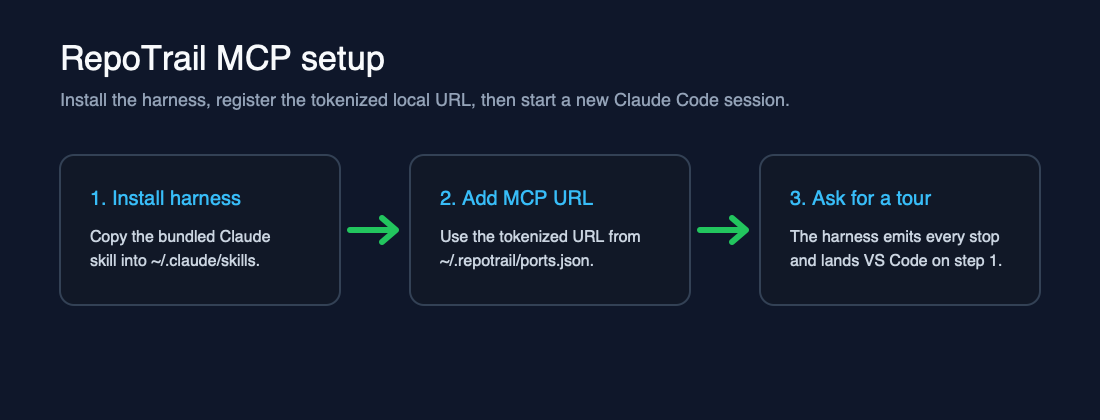
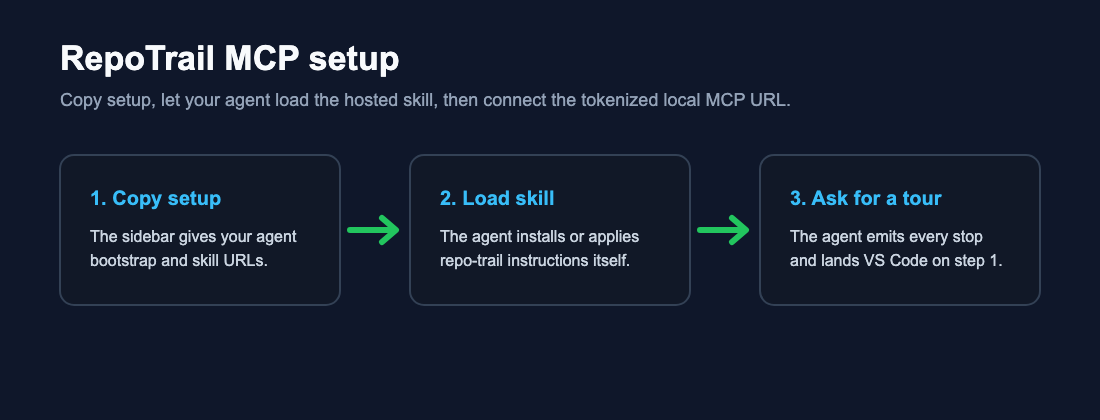
fix: make RepoTrail setup agent-owned
RepoTrail should serve the canonical skill and bootstrap metadata while each MCP-capable agent installs or applies that skill through its own harness mechanism. This removes the dedicated Claude install path from the extension so Claude remains only an example client, not a product adapter.

Constraint: RepoTrail launch path must be harness-agnostic over tokenized local MCP

Rejected: Keep a Claude-specific install command | it makes one client look privileged and recreates setup confusion

Confidence: high

Scope-risk: narrow

Directive: Keep vendor-specific setup out of the extension command surface; document clients only as examples

Tested: pnpm build

Tested: pnpm install-local

Tested: unpacked repotrail-0.10.0.vsix and scanned packaged command/stale-string surfaces

Not-tested: live VS Code window reload after reinstall

diff --git a/src/extension.ts b/src/extension.ts
@@ -1,6 +1,3 @@
-import * as fs from "node:fs/promises";
-import * as os from "node:os";
-import * as path from "node:path";
 import * as vscode from "vscode";
 import {
   parseTourJson,
@@ -145,7 +142,6 @@ export async function activate(context: vscode.ExtensionContext): Promise<void> 
     ),
     vscode.commands.registerCommand("repoTrail.stop", () => controller.stop()),
     vscode.commands.registerCommand("repoTrail.copyAgentSetup", () => copyAgentSetup()),
-    vscode.commands.registerCommand("repoTrail.installSkillForClaude", () => installSkillForClaude(context)),
     vscode.commands.registerCommand("repoTrail.openNarration", () => {
       vscode.commands.executeCommand("repoTrail.tour.focus").then(undefined, () => {});
     }),
@@ -543,34 +539,10 @@ async function copyAgentSetup(): Promise<void> {
   const prompt =
     "Use RepoTrail for this VS Code workspace.\n\n" +
     `1. Fetch this bootstrap metadata: ${mcp.bootstrapUrl}\n` +
-    `2. Fetch and install/use this as the repo-trail skill: ${mcp.skillUrl}\n` +
+    `2. Fetch this repo-trail skill and install/use it with your own agent skill mechanism: ${mcp.skillUrl}\n` +
     `3. Connect to the RepoTrail MCP server: ${mcp.connectionUrl}\n` +
     "4. Call get_workspace and verify workspaceRoot matches this repository before emitting a tour.\n" +
     "5. Generate the complete tour up front with start_tour, add_step, and show_step({ index: 0 }).";
   await vscode.env.clipboard.writeText(prompt);
   vscode.window.showInformationMessage("Copied RepoTrail agent setup. Paste it into your agent.");
-}
-
-async function installSkillForClaude(context: vscode.ExtensionContext): Promise<void> {
-  const sourceDir = vscode.Uri.joinPath(context.extensionUri, "harness", "repo-trail").fsPath;
-  const skillsDir = path.join(os.homedir(), ".claude", "skills");
-  const targetDir = path.join(skillsDir, "repo-trail");
-  const legacyDirs = [path.join(skillsDir, "repotrail"), path.join(skillsDir, ["code", "atlas"].join("-"))];
-  try {
-    for (const dir of [targetDir, ...legacyDirs]) {
-      await fs.rm(dir, { recursive: true, force: true });
-    }
-    await fs.mkdir(skillsDir, { recursive: true });
-    await fs.cp(sourceDir, targetDir, { recursive: true });
-    vscode.window.showInformationMessage(
-      "repo-trail skill installed for Claude Code. Add the MCP server if needed, then start a new Claude Code session.",
-      "Copy agent setup",
-    ).then((pick) => {
-      if (pick === "Copy agent setup") void copyAgentSetup();
-    });
-  } catch (err) {
-    vscode.window.showErrorMessage(
-      `RepoTrail: failed to install repo-trail skill for Claude Code: ${err instanceof Error ? err.message : String(err)}`,
-    );
-  }
 }

diff --git a/src/mcp/server.ts b/src/mcp/server.ts
@@ -523,7 +523,7 @@ export class RepoTrailMcpServer {
         name: "repo-trail",
         url: this.skillUrl,
         mediaType: "text/markdown",
-        install: "Fetch this skill and install or use it as the repo-trail harness instructions.",
+        install: "Fetch this skill and install or use it with the agent's own skill mechanism.",
       },
       mcp: {
         name: "repotrail",
@@ -538,7 +538,7 @@ export class RepoTrailMcpServer {
         },
       },
       workflow: [
-        "Fetch and install/use the repo-trail skill instructions before generating a tour.",
+        "Fetch the repo-trail skill and install or use it with the agent's own skill mechanism before generating a tour.",
         "Connect to the MCP server.",
         "Call get_workspace and verify workspaceRoot matches the current repository.",
         "Emit the full route up front with start_tour, add_step, and show_step({ index: 0 }).",

diff --git a/README.md b/README.md
@@ -49,24 +49,11 @@ Give me a RepoTrail tour of this repository.
 
 ![RepoTrail MCP setup](media/mcp-setup.png)
 
-## Optional Claude Code Install
-
-Claude Code can use the hosted skill, or you can install the same `repo-trail`
-skill locally so new Claude Code sessions know the RepoTrail workflow:
-
-```text
-RepoTrail: Install repo-trail Skill for Claude Code
-```
-
-That installs the skill to `~/.claude/skills/repo-trail/`. You still use
-**Connect agent** or **RepoTrail: Copy Agent Setup** for each VS Code workspace,
-because the setup prompt carries the live local MCP URLs for that window.
-
 ## Use Any MCP-Capable Agent
 
-Claude Code is optional, not a protocol requirement. RepoTrail supports any
-local agent or harness that can fetch the hosted skill and call a Streamable
-HTTP MCP server with either:
+RepoTrail has no vendor-specific adapter. It supports any local agent or harness
+that can fetch the hosted `repo-trail` skill and call a Streamable HTTP MCP
+server with either:
 
 - the tokenized URL copied by **RepoTrail: Copy Agent Setup**, or
 - the same `/mcp` URL without `?token=...` plus `Authorization: Bearer <token>`.
@@ -74,8 +61,12 @@ HTTP MCP server with either:
 Streamable HTTP requests should advertise `Accept: application/json,
 text/event-stream`.
 
-For non-Claude clients, click **Connect agent** in the sidebar or run
-**RepoTrail: Copy Agent Setup**. The agent should:
+The agent owns skill installation. After reading `/bootstrap?token=...`, it
+should fetch `/skill.md?token=...` and install or apply those instructions using
+its own skill mechanism. Examples include Claude Code, Codex, custom local
+harnesses, or any other client that can load instructions and call MCP.
+
+Once it has loaded the skill, the agent should:
 
 1. Call `get_workspace` and verify `workspaceRoot` matches the current repo.
 2. Call `start_tour`.
@@ -117,8 +108,6 @@ See [PRIVACY.md](PRIVACY.md) for the longer policy.
 - `RepoTrail: Copy Tour Prompt` - copy a tour request for your connected agent.
 - `RepoTrail: Copy Agent Setup` - copy a prompt that tells any agent where to
   fetch the hosted RepoTrail skill and how to connect MCP.
-- `RepoTrail: Install repo-trail Skill for Claude Code` - install the same
-  `repo-trail` skill to `~/.claude/skills/repo-trail/`.
 - `RepoTrail: Copy Tour From Here Prompt` - copy a prompt scoped to the active
   file or selection.
 - `RepoTrail: Export Tour` / `RepoTrail: Import Tour`.
@@ -139,8 +128,8 @@ locally with `pnpm install-local`.
 
 ## Limitations
 
-- MCP clients must support Streamable HTTP. Claude Code must start a new session
-  after MCP registration so it can load the `mcp__repotrail__*` tools.
+- MCP clients must support Streamable HTTP. Some clients need a new session
+  after MCP registration so they can load the `mcp__repotrail__*` tools.
 - RepoTrail is read-only. It navigates and explains code; it does not refactor
   files.
 - Open VSX publishing is not part of the first launch.

diff --git a/CHANGELOG.md b/CHANGELOG.md
@@ -8,7 +8,8 @@
   token-authenticated HTTP server.
 - Added a direct **Connect agent** sidebar button and simplified setup command.
 - Renamed command-palette setup actions to match what they actually do.
-- Added a VS Code command to install the same `repo-trail` skill for Claude Code.
+- Removed vendor-specific skill installation from the extension; agents fetch
+  and install or apply the hosted `repo-trail` skill with their own mechanism.
 - Added token-authenticated local MCP URLs under `~/.repotrail/ports.json`.
 - Rejected unauthenticated MCP calls and workspace-escaping tour step files.
 - Added generic harness guidance under `harness/README.md` and the single

diff --git a/PRIVACY.md b/PRIVACY.md
@@ -18,9 +18,8 @@ agent skill at `/skill.md`; both endpoints require the same local auth token.
 
 RepoTrail itself does not send your source code to a hosted model. Tour
 generation is performed by your external harness. What that harness reads or
-sends depends on the tools and model configuration of the agent you connect.
-The Claude Code install command copies the same bundled `repo-trail` skill used
-by other MCP-capable agents.
+sends depends on the tools, model configuration, and skill-install behavior of
+the agent you connect.
 
 ## Text-To-Speech Providers
 

diff --git a/harness/README.md b/harness/README.md
@@ -6,8 +6,8 @@ server; any local agent that can fetch the skill and call MCP can create and
 refine tours.
 
 The single skill source lives in `harness/repo-trail/SKILL.md` and is served at
-`/skill.md?token=<token>`. The extension can also install that same skill into
-Claude Code with **RepoTrail: Install repo-trail Skill for Claude Code**.
+`/skill.md?token=<token>`. The agent or harness owns installation: fetch that
+URL and install or apply the instructions using its own skill mechanism.
 
 ## Connection
 

diff --git a/SUPPORT.md b/SUPPORT.md
@@ -12,5 +12,5 @@ When reporting MCP setup issues, include:
 - Whether the agent can fetch the `/bootstrap` and `/skill.md` URLs from
   **Connect agent** / **RepoTrail: Copy Agent Setup**.
 - The agent or harness name and version.
-- For Claude Code, the output of `claude mcp list`.
+- The MCP client registration or connection status from your agent.
 - The exact error shown by your agent or the RepoTrail output channel.
